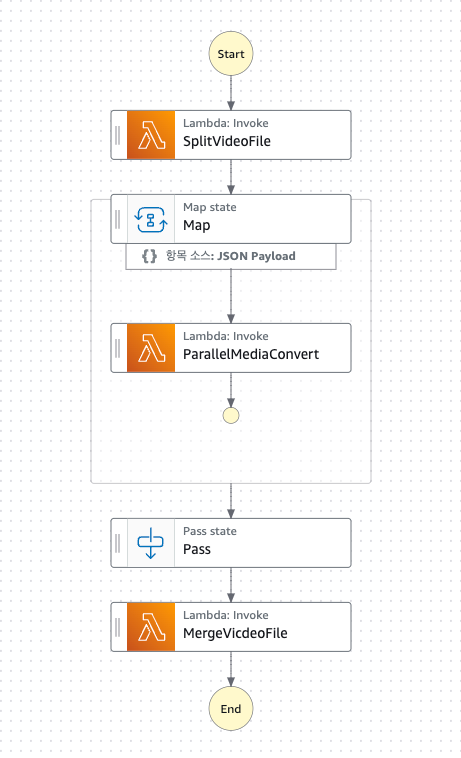
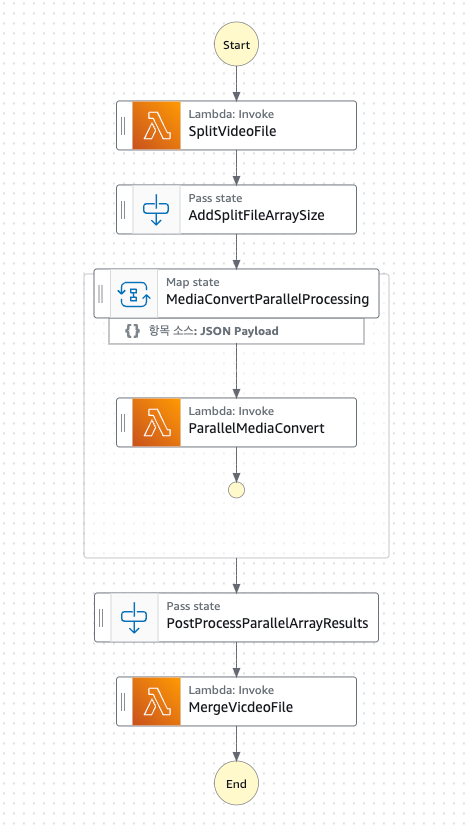
chore : 수정 반영된 상태 머신 정보 업데이트

diff --git a/README.md b/README.md
@@ -155,13 +155,15 @@ python3.9, python3.10, python3.11, python3.12, provided.al2023
   - S3트리거 이벤트를 이용한 상태 머신 실행 함수
 - **SplitVideoFile**
   -  환경변수에 정의된 `SegmentDuration` 값에 따라 파일 분할 및 S3 업로드
-- **Map**
-  - `SplitVideoFile` 상태에서 분할 된 파일 목록으로 각 파일마다 `ParallelMediaConvert` 함수를 병렬로 호출
+- **AddSplitFileArraySize**
+  - `SplitVideoFile` 상태 결과 데이터에 분할된 파일 배열 사이즈 추가
+- **MediaConvertParallelProcessing**
+  - `AddSplitFileArraySize` 상태에서 분할 된 파일 목록으로 각 파일마다 `ParallelMediaConvert` 함수를 병렬로 호출
 - **ParallelMediaConvert**
   - `MP4` 인코딩 및 `Thumbnail` 추출 / S3 업로드
   - `Thumbnail`의 경우 분할된 파일중 첫번째 파일에서 추출 진행
-- **Pass**
-  - `Map` 상태에서 반환된 배열을 가공하여 `MergeVideoFile` 상태로 전달
+- **PostProcessParallelArrayResults**
+  - `MediaConvertParallelProcessing` 상태에서 반환된 배열을 가공하여 `MergeVideoFile` 상태로 전달
 - **MergeVideoFile**
   - 병렬로 처리 중인 `ParallelMediaConvert` 상태 완료 대기
   - 분할 된 파일 병합 후 최종 S3경로로 업로드
